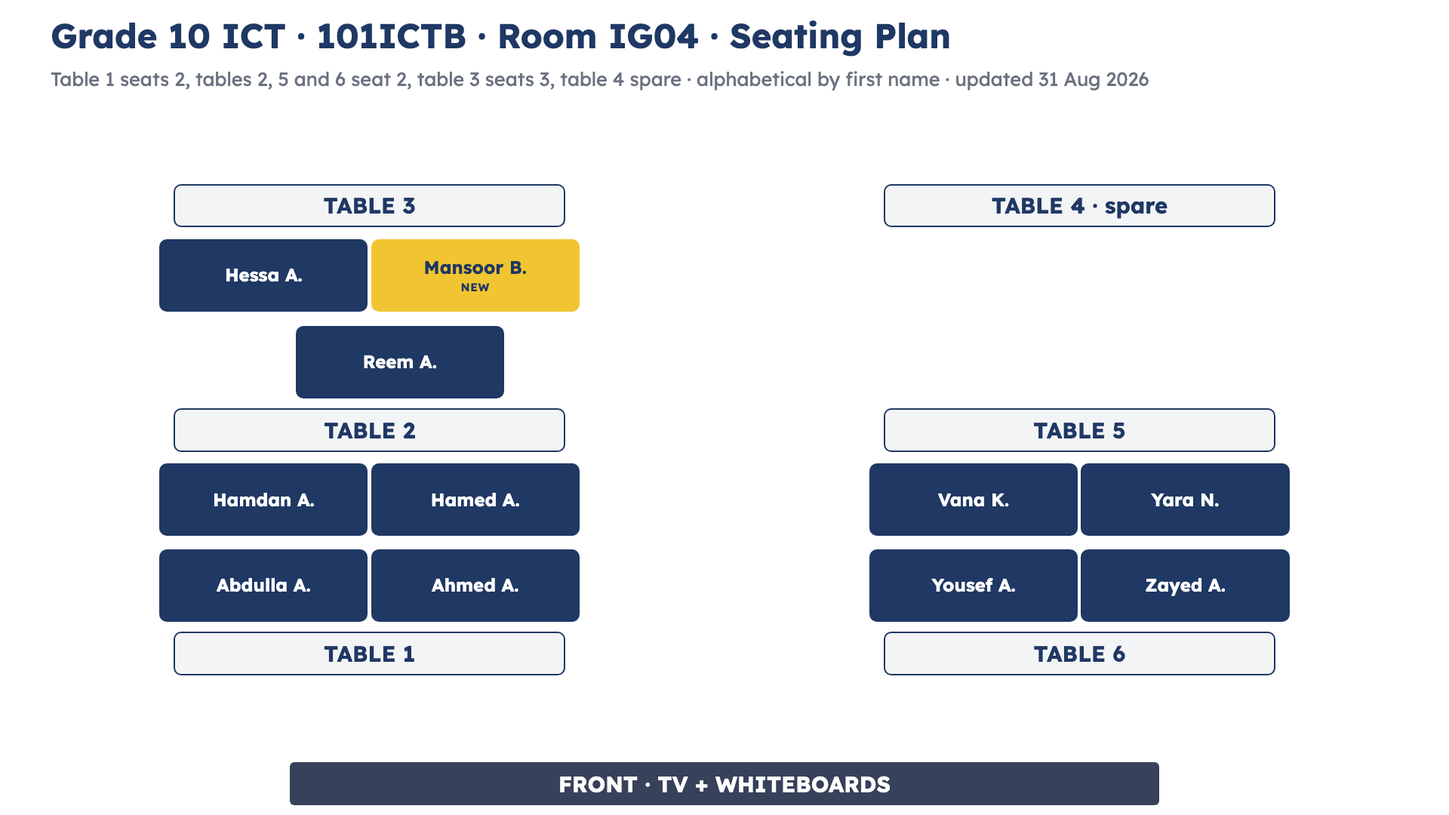
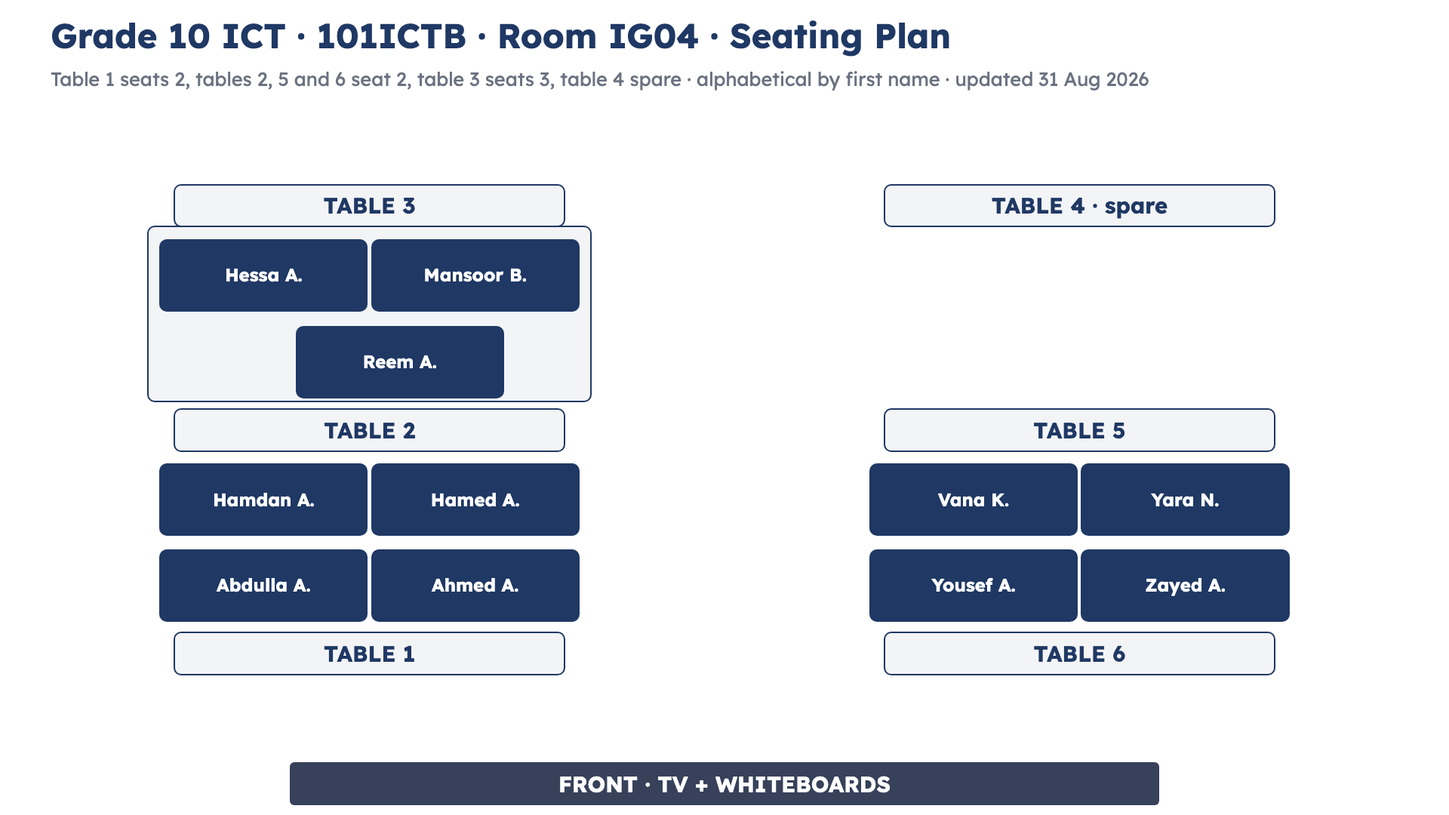
inline edits

Changed region(s): [[0.25, 0.275, 0.4062, 0.3972]]

diff --git a/g10-week1-welcome-ict.html b/g10-week1-welcome-ict.html
@@ -165,7 +165,10 @@ body { font-family:var(--font-body); font-size:var(--body-size); color:#F2F5FF; 
 .crt-glow { position:fixed; inset:0; z-index:320; pointer-events:none;
   background:radial-gradient(ellipse at 50% 50%, transparent 52%, rgba(0,0,0,.42) 100%); }
 
-/* drifting tetrominoes, drawn from one square plus three shadows */
+/* drifting tetrominoes, drawn from one square plus three shadows.
+   .tetbox pens them inside their own slide so a drifting piece can never
+   push a slide's measured height past the slide itself. */
+.tetbox { position:absolute; inset:0; overflow:hidden; z-index:1; pointer-events:none; }
 .tetfall { position:absolute; z-index:1; --tc:clamp(11px, 1.5vw, 20px);
   width:var(--tc); height:var(--tc); background:currentColor; opacity:.14;
   animation:tetdrop linear infinite; }
@@ -304,7 +307,8 @@ body.scaled-up .col-img { display:none; }
 .sh-col { display:flex; flex-direction:column; gap:clamp(3px,0.4vw,6px); }
 .sh-band { display:grid; grid-template-columns:1fr 1fr; gap:clamp(3px,0.4vw,6px); }
 .sh-head { display:flex; justify-content:space-between; gap:8px; align-items:center; background:#EDE6D2; }
-.sh-row { display:flex; gap:5px; align-items:flex-start; }
+/* position:relative so a row ring sits on the row itself, not on the whole box */
+.sh-row { display:flex; gap:5px; align-items:flex-start; position:relative; }
 .sh-tick { flex:none; width:1.15em; height:1.15em; border:2px solid #6C7284; background:#fff; margin-top:1px; }
 .rule { display:block; border-bottom:1px solid #A9A08A; height:1.05em; }
 .sh-mini { font-size:0.88em; color:#4A4F60; }
@@ -470,15 +474,17 @@ body.edit-active [contenteditable="true"] { outline:2px dashed var(--p-o); outli
 
 <!-- 1 · Title -->
 <section class="slide g-arcade" data-notes="<strong>Threshold, 08:30.</strong> Stand at the door of IG04 as they arrive from IF05. Greet every student by name if you can, uniform and appearance glance before anyone comes in (Expectations s35), fixes go out before entry, not after. <strong>Presenter keys:</strong> N notes &middot; E edit (autosaves on this machine) &middot; F fullscreen &middot; &#8984;&#8679;H hides teacher callouts &middot; arrow keys move, and a slide with a task shows its timer top left. <strong>The red iSAMS pop-up arrives on slide 3 and follows every slide until you press &#10003; done.</strong>">
-  <div class="tetfall I" style="left:8%;  animation-duration:38s; animation-delay:-4s"></div>
-  <div class="tetfall T" style="left:24%; animation-duration:52s; animation-delay:-22s"></div>
-  <div class="tetfall O" style="left:71%; animation-duration:44s; animation-delay:-11s"></div>
-  <div class="tetfall S" style="left:88%; animation-duration:58s; animation-delay:-31s"></div>
+  <div class="tetbox" aria-hidden="true">
+    <div class="tetfall I" style="left:8%;  animation-duration:38s; animation-delay:-4s"></div>
+    <div class="tetfall T" style="left:24%; animation-duration:52s; animation-delay:-22s"></div>
+    <div class="tetfall O" style="left:71%; animation-duration:44s; animation-delay:-11s"></div>
+    <div class="tetfall S" style="left:88%; animation-duration:58s; animation-delay:-31s"></div>
+  </div>
   <div class="slide-content">
     <span class="chip reveal" style="align-self:flex-start">WEEK 1 &middot; LESSON 1 &middot; TUESDAY 1 SEPTEMBER</span>
     <h1 class="reveal" style="margin-top:0.55em">WELCOME<br>TO <span style="color:var(--p-i)">ICT</span></h1>
     <p class="lede reveal" style="margin-top:0.7em">Grade 10 &middot; 101ICTB &middot; Mr Igor &middot; Room IG04</p>
-    <p class="reveal" style="margin-top:0.7em; max-width:820px">Two weeks of artificial intelligence, ending with a working Tetris game built from a single prompt. Today we set the class up so none of that time gets lost.</p>
+    <p class="reveal" style="margin-top:0.7em; max-width:820px">Two weeks build toward a working Tetris game, made from one carefully written instruction to a computer. Today we set the class up so none of that time gets lost.</p>
     <p class="reveal" style="margin-top:1em"><span class="chip dark">PERIOD 1 &nbsp;08:30 to 09:05</span> &nbsp; <span class="chip dark">PERIOD 2 &nbsp;09:10 to 09:45</span></p>
   </div>
 </section>
@@ -510,11 +516,14 @@ body.edit-active [contenteditable="true"] { outline:2px dashed var(--p-o); outli
         <p class="small" style="margin-top:6px; font-family:var(--font-label); font-size:var(--label-size); color:var(--p-i)">the seating plan for IG04 &middot; find your table as you walk in</p>
       </div>
     </div>
+    <p data-teacher-only="true" style="margin-top:var(--element-gap)">
+      <a class="linkbtn gold" data-teacher-only="true" href="https://docs.google.com/presentation/d/1kD-_kfR5YJZA6YTBsMhgRQG44PpTvgGZwYV4GcWB40M/edit" target="_blank" rel="noopener">&#9654; open the seating plan (full names)</a>
+    </p>
   </div>
 </section>
 
 <!-- 3 · The lesson loop + housekeeping · iSAMS ARRIVES HERE -->
-<section class="slide g-panel" data-isams="true" data-notes="<strong>Housekeeping and the loop, about 1 min.</strong> Fast. This is the shape of every lesson in student words, and it is the slide that carries the register reminder and the timetable handout. <strong>The red iSAMS pop-up lands here and follows every slide until you press &#10003; done. One register for this double, final by 08:35.</strong> Open iSAMS with the link inside the pop-up. <span class='tag cfu'>CFU</span> fist to five: who can say the four steps back to me?">
+<section class="slide g-panel" data-isams="true" data-notes="<strong>Housekeeping and the loop, about 1 min.</strong> Fast. This is the shape of every lesson in student words, and it is the slide that carries the register reminder and the timetable handout. <strong>The red iSAMS pop-up lands here and follows every slide until you press &#10003; done. One register for this double, final by 08:35.</strong> Open iSAMS with the link inside the pop-up. <span class='tag cfu'>CFU</span> Cold Call one student to say the four steps back to me. Then fist to five: how confident is everyone else that they know them?">
   <div class="slide-content">
     <p class="eyebrow reveal">// how_every_lesson_runs</p>
     <h2 class="reveal">The same loop, every lesson</h2>
@@ -524,7 +533,7 @@ body.edit-active [contenteditable="true"] { outline:2px dashed var(--p-o); outli
       <div class="tblock s reveal"><b>3 &middot; Build laps</b><br>You work, I circulate, we check against the criteria.</div>
       <div class="tblock t reveal"><b>4 &middot; Prove it</b><br>Tick your sheet, exit ticket, barometer, out the door.</div>
     </div>
-    <div class="tblock z reveal" style="margin-top:var(--content-gap)"><b>Today only:</b> your printed timetable is handed out in this period. Put it somewhere you will actually find it again.</div>
+    <div class="tblock z reveal" style="margin-top:var(--content-gap)"><b>Today only:</b> you get your printed timetable this period. Put it somewhere you will actually find it again.</div>
     <div class="tcall reveal" data-teacher-only="true" style="margin-top:var(--element-gap)">one iSAMS register for this double, final by 08:35. Use the link in the red pop-up, then press done.</div>
   </div>
 </section>
@@ -547,9 +556,11 @@ body.edit-active [contenteditable="true"] { outline:2px dashed var(--p-o); outli
 </section>
 
 <!-- 5 · Do Now, part 1: silent solo -->
-<section class="slide g-well" data-timer="240" data-timer-group="donow" data-notes="<strong>Do Now part 1, 4 min silent solo.</strong> Start the 4 minute timer top left. TLAC Do Now: they should already be writing before you say anything. Circulate, do not talk over them. The Hint is on the sheet in Box 6 and revealed on this slide with NEXT if anyone stalls. <strong>Below Level:</strong> the sentence starter stays on screen. <strong>Above Level:</strong> point them at the Challenge box as soon as they finish. Poster 12 is the next slide, and the wall copy is in the room.">
-  <div class="tetfall O" style="left:6%; animation-duration:46s; animation-delay:-9s"></div>
-  <div class="tetfall Z" style="left:93%; animation-duration:54s; animation-delay:-26s"></div>
+<section class="slide g-well" data-timer="240" data-notes="<strong>Do Now part 1, 4 min silent solo.</strong> Start the 4 minute timer top left. TLAC Do Now: they should already be writing before you say anything. Circulate, do not talk over them. The Hint is on the sheet in Box 6 and revealed on this slide with NEXT if anyone stalls. <strong>Below Level:</strong> the sentence starter stays on screen. <strong>Above Level:</strong> point them at the Challenge box as soon as they finish. Poster 12 is the next slide, and the wall copy is in the room.">
+  <div class="tetbox" aria-hidden="true">
+    <div class="tetfall O" style="left:6%; animation-duration:46s; animation-delay:-9s"></div>
+    <div class="tetfall Z" style="left:93%; animation-duration:54s; animation-delay:-26s"></div>
+  </div>
   <div class="slide-content" style="max-width:min(96vw,1420px)">
     <p class="eyebrow reveal">// do_now &middot; my_top_three</p>
     <h2 class="reveal">Do Now: My Top Three</h2>
@@ -561,7 +572,7 @@ body.edit-active [contenteditable="true"] { outline:2px dashed var(--p-o); outli
           <li class="reveal">My number two.</li>
           <li class="reveal">My number three.</li>
         </ul>
-        <p class="reveal" style="margin-top:var(--element-gap)"><span class="chip red">4 minutes &middot; on your own &middot; silent &middot; on your sheet, Box 5</span></p>
+        <p class="reveal" style="margin-top:var(--element-gap)"><span class="chip red">4 minutes &middot; on your own &middot; silent &middot; in the DO NOW box</span></p>
         <div class="tblock i reveal" style="margin-top:var(--element-gap)"><b>Stuck for a sentence?</b> Try: "I would not want to live without ... because ..."</div>
         <div class="tblock s" data-fragment="1" style="margin-top:var(--element-gap)"><b>HINT (stuck on the Do Now?)</b><br>Think about your last 24 hours. What did you switch on, pick up or open first?</div>
       </div>
@@ -571,18 +582,22 @@ body.edit-active [contenteditable="true"] { outline:2px dashed var(--p-o); outli
 </section>
 
 <!-- 6 · Poster 12, big at the point of use -->
-<section class="slide g-paper" data-notes="<strong>Poster 12, about 30 seconds.</strong> Point at the wall copy in the room while this is up. My Top Three is a PIES task: everyone thinks alone first, everyone shares before anyone shares twice, and the group has to build one answer out of at least three people's ideas. Leave it up while the tables negotiate on the next slide.">
+<section class="slide g-paper" data-notes="<strong>Poster 12, about 30 seconds.</strong> Point at the wall copy while the tables negotiate on the next slide. Poster 12 lives on the wall, so it stays visible in the room. My Top Three is a PIES task: everyone thinks alone first, everyone shares before anyone shares twice, and the group has to build one answer out of at least three people's ideas.">
   <div class="poster-wrap">
     <img src="assets/poster-12.jpg" alt="Poster 12: My Top Three, a cooperative learning activity built on PIES">
   </div>
-  <div style="position:relative; z-index:3; text-align:center; padding:0 1rem clamp(0.5rem,2vh,1.2rem)">
+  <div style="position:relative; z-index:3; padding:0 1rem clamp(0.5rem,2vh,1.2rem); display:flex; flex-direction:column; align-items:center; gap:clamp(0.25rem,0.8vh,0.5rem)">
     <span class="chip">Poster 12 lives on our wall. Every group game in this room works the PIES way.</span>
+    <span class="chip dark" style="text-align:center">PIES: Positive interdependence, Individual accountability, Equal participation, Simultaneous interaction.</span>
+    <span class="chip green" style="text-align:center">Our room runs it in threes and fours, because our tables seat two.</span>
   </div>
 </section>
 
 <!-- 7 · Do Now, part 2: the table agrees -->
-<section class="slide g-well" data-timer="240" data-timer-group="donow" data-notes="<strong>Do Now part 2, 4 min table share, then 2 min Cold Call.</strong> The block clock carries over from the solo phase, so hit start again for the table share. Equal Participation is the rule that matters: everyone speaks once before anyone speaks twice. Circulate and listen for who is doing the negotiating. <span class='tag cfu'>CFU</span> Cold Call two tables with NEXT: their agreed Top 3, and whose idea each one was. That second half is the part that makes them listen.">
-  <div class="tetfall S" style="left:12%; animation-duration:50s; animation-delay:-14s"></div>
+<section class="slide g-well" data-timer="240" data-notes="<strong>Do Now part 2, 4 min table share, then 2 min Cold Call.</strong> Fresh 4 minute clock for the table share. Click it when they start talking. Equal Participation is the rule that matters: everyone speaks once before anyone speaks twice. Circulate and listen for who is doing the negotiating. <span class='tag cfu'>CFU</span> Cold Call two tables with NEXT: their agreed Top 3, and whose idea each one was. That second half is the part that makes them listen.">
+  <div class="tetbox" aria-hidden="true">
+    <div class="tetfall S" style="left:12%; animation-duration:50s; animation-delay:-14s"></div>
+  </div>
   <div class="slide-content" style="max-width:min(96vw,1420px)">
     <p class="eyebrow reveal">// do_now &middot; table_agreement</p>
     <h2 class="reveal">Now your table agrees one Top 3</h2>
@@ -593,6 +608,7 @@ body.edit-active [contenteditable="true"] { outline:2px dashed var(--p-o); outli
           <li class="reveal">Everyone shares once before anyone shares twice.</li>
           <li class="reveal">The table agrees <b>one</b> Top 3, using ideas from at least three different people.</li>
         </ul>
+        <div class="tblock i reveal" style="margin-top:var(--element-gap)">Tables 1 and 2 work as one group. Table 3 works as a three. Tables 5 and 6 work as one group.</div>
         <p class="reveal" style="margin-top:var(--element-gap)"><span class="chip red">4 minutes &middot; at your table</span></p>
         <div class="tblock z" data-fragment="1" style="margin-top:var(--element-gap)"><b>Cold Call, 2 minutes.</b> Two tables report their agreed Top 3, and say whose idea each one was. No hands up, I pick.</div>
       </div>
@@ -609,7 +625,7 @@ body.edit-active [contenteditable="true"] { outline:2px dashed var(--p-o); outli
     <div class="two-col" style="align-items:start">
       <div style="max-width:680px">
         <div class="tblock o reveal" style="font-size:calc(clamp(0.95rem,1.9vw,1.4rem) * var(--font-scale))"><b>CHALLENGE (finished the Do Now?)</b><br>Connect your three. Write one sentence that is true for all three of your choices.</div>
-        <p class="reveal" style="margin-top:var(--element-gap)"><span class="chip">two ruled lines, Box 7 on your sheet</span></p>
+        <p class="reveal" style="margin-top:var(--element-gap)"><span class="chip">two ruled lines, in the CHALLENGE box</span></p>
         <div class="tblock i reveal" style="margin-top:var(--element-gap)">One sentence, not three. The harder it is to find something true of all three, the better your answer will be.</div>
       </div>
       <div class="col-img reveal sheet-fig sheet-slot" data-rings="b7:gold" style="max-width:min(44vw,600px)"></div>
@@ -667,7 +683,7 @@ body.edit-active [contenteditable="true"] { outline:2px dashed var(--p-o); outli
         <h2 class="reveal">Mr Igor</h2>
         <ul class="plain">
           <li class="reveal">This is my <b>eighth year of teaching at AIS</b>.</li>
-          <li class="reveal">I was born in <b>Mostar</b>, in Bosnia and Croatia. I have lived in Australia since I was ten.</li>
+          <li class="reveal">Born in <b>Mostar</b> (Bosnia/Croatia). In Australia since I was ten.</li>
           <li class="reveal"><b>Sydney</b> was the last place I lived before AIS.</li>
           <li class="reveal">I really love teaching. I love technology. I love watches.</li>
           <li class="reveal">Most importantly, I really love <b>having fun</b>.</li>
@@ -705,8 +721,10 @@ body.edit-active [contenteditable="true"] { outline:2px dashed var(--p-o); outli
 
 <!-- 14 · Things I do not like + the hinge + CFU -->
 <section class="slide g-arcade" data-notes="<strong>The hinge, about 2 min, then the check.</strong> Two things, no more. Then say the line on the slide out loud, in your own voice, and let it sit for a beat. It is what hands the lesson over to the routines block in Period 2. <span class='tag cfu'>CFU</span> Cold Call three students, one fact each about Mr Igor, no hands up. Then Building Ratio: 'Who can add one more?' goes to a fourth student before you confirm anything. Three seconds of Wait Time before every answer.">
-  <div class="tetfall Z" style="left:14%; animation-duration:42s; animation-delay:-6s"></div>
-  <div class="tetfall L" style="left:82%; animation-duration:56s; animation-delay:-30s"></div>
+  <div class="tetbox" aria-hidden="true">
+    <div class="tetfall Z" style="left:14%; animation-duration:42s; animation-delay:-6s"></div>
+    <div class="tetfall L" style="left:82%; animation-duration:56s; animation-delay:-30s"></div>
+  </div>
   <div class="slide-content">
     <p class="eyebrow reveal">// things_i_do_not_like</p>
     <h2 class="reveal">Two things I do not like</h2>
@@ -721,8 +739,10 @@ body.edit-active [contenteditable="true"] { outline:2px dashed var(--p-o); outli
 
 <!-- 15 · Changeover: Heads and Tails, two coins -->
 <section class="slide g-arcade" data-notes="<strong>Changeover, 09:05 to 09:10 (5 min).</strong> The class stays in IG04, this is the gap between Period 1 and Period 2. Brain Break from OTP s3, run with two coins so a round ends faster with eleven players. Everyone stands, they choose before you flip, both coins have to match their choice. Click each coin separately or use FLIP BOTH. Play until two or three are left, then straight into Period 2.">
-  <div class="tetfall O" style="left:10%; animation-duration:40s; animation-delay:-3s"></div>
-  <div class="tetfall I" style="left:90%; animation-duration:48s; animation-delay:-19s"></div>
+  <div class="tetbox" aria-hidden="true">
+    <div class="tetfall O" style="left:10%; animation-duration:40s; animation-delay:-3s"></div>
+    <div class="tetfall I" style="left:90%; animation-duration:48s; animation-delay:-19s"></div>
+  </div>
   <div class="slide-content" style="align-items:center; text-align:center">
     <p class="eyebrow reveal">// brain_break</p>
     <h1 class="reveal">HEADS AND TAILS</h1>
@@ -783,22 +803,22 @@ body.edit-active [contenteditable="true"] { outline:2px dashed var(--p-o); outli
       <li data-fragment="2"><b>Posters live on cupboards.</b> Nothing on classroom walls, and nothing on the windows facing the corridor.</li>
       <li data-fragment="3"><b>Fresh paint, new furniture.</b> We hand this room back better than we found it.</li>
     </ul>
-    <div class="tblock o reveal" style="margin-top:var(--content-gap)">That last line comes back at the end of the lesson, on your Exit Ticket.</div>
+    <div class="tblock o" data-fragment="4" style="margin-top:var(--content-gap)">That last line comes back at the end of the lesson, on your Exit Ticket.</div>
   </div>
 </section>
 
 <!-- 18 · Bathroom + nurse -->
-<section class="slide g-panel" data-notes="<strong>Bathroom and nurse, about 2 min. Expectations s33 and s34.</strong> Reveal one at a time. These are school-wide rules, not Mr Igor being difficult, and saying so lands better. <span class='tag cfu'>CFU</span> fist to five on both routines at the end. Anything under 3 gets re-taught on the spot, not later. <strong>New this year:</strong> a nurse slip goes to the secondary clinic, not the Senior School Hub.">
+<section class="slide g-panel" data-notes="<strong>Bathroom and nurse, about 2 min. Expectations s33 and s34.</strong> Reveal one at a time. These are school-wide rules, not Mr Igor being difficult, and saying so lands better. <span class='tag cfu'>CFU</span> fist to five on both routines at the end. Anything under 3 gets re-taught on the spot, not later. <strong>Nurse:</strong> a nurse slip sends them straight to the secondary clinic. <strong>Say what the All Access Pass is</strong> as you name it, because today is the first time they hear the phrase.">
   <div class="slide-content">
     <p class="eyebrow reveal">// bathroom_and_nurse</p>
     <h2 class="reveal">Bathroom and nurse</h2>
-    <div class="tblock i reveal">
-      <b>Bathroom.</b> You need an All Access Pass from me. Not in the first 15 minutes of a lesson, and not in the last 15. One student out at a time. Nearest bathroom to this room. Five minutes.
+    <div class="tblock i" data-fragment="1">
+      <b>Bathroom.</b> You need an All Access Pass, the pass I hand you at my desk, before you leave the room. Not in the first 15 minutes of a lesson, and not in the last 15. One student out at a time. Nearest bathroom to this room. Five minutes.
     </div>
-    <div class="tblock s reveal" style="margin-top:var(--element-gap)">
-      <b>Feeling unwell.</b> I write you a nurse slip and you go straight to the secondary clinic, not the Senior School Hub. The nurse signs you back in.
+    <div class="tblock s" data-fragment="2" style="margin-top:var(--element-gap)">
+      <b>Feeling unwell.</b> I write you a nurse slip and you go straight to the secondary clinic. The nurse signs you back in.
     </div>
-    <div class="tblock o reveal" style="margin-top:var(--element-gap)">
+    <div class="tblock o" data-fragment="3" style="margin-top:var(--element-gap)">
       <b>Break time exists for a reason.</b> Go then, and you never need the pass at all.
     </div>
   </div>
@@ -814,8 +834,11 @@ body.edit-active [contenteditable="true"] { outline:2px dashed var(--p-o); outli
       <li data-fragment="2"><b>Makeup:</b> natural foundation only. No eyeliner, mascara, lip gloss or lipstick.</li>
       <li data-fragment="3"><b>Nails:</b> no nail extensions, no coloured gel.</li>
       <li data-fragment="4"><b>Bandaids:</b> medical only, skin colour or clear.</li>
-      <li data-fragment="5"><b>Drama and sports uniforms</b> are worn on their own days and events only, not in ICT.</li>
-      <li data-fragment="6"><b>Shoes and jewellery</b> follow the AIS appearance policy. If you are unsure, ask me before someone else asks you.</li>
+      <li data-fragment="5"><b>Shoes:</b> black shoes with plain socks. No coloured trainers, and no coloured socks.</li>
+      <li data-fragment="6"><b>Jewellery, watches:</b> one wrist watch. Smart watches are allowed.</li>
+      <li data-fragment="7"><b>Jewellery, earrings:</b> up to two thin earrings in each pierced ear. Studs up to 5 mm, sleepers up to 15 mm.</li>
+      <li data-fragment="8"><b>Jewellery, necklaces:</b> one necklace, and only if it has religious significance and stays hidden under your collar.</li>
+      <li data-fragment="9"><b>Drama and sports uniforms</b> are worn on their own days and events only, not in ICT.</li>
     </ul>
   </div>
 </section>
@@ -851,7 +874,7 @@ body.edit-active [contenteditable="true"] { outline:2px dashed var(--p-o); outli
           On your own device, research one real use of artificial intelligence. Then <span class="verb">critique</span> it. Write three things: the use you found, what could go wrong, and what a person still has to do.
         </div>
         <div class="tblock i reveal" style="margin-top:var(--element-gap)">Hand it to Mr Igor, or post it in Google Classroom once you have joined.</div>
-        <p class="reveal" style="margin-top:var(--element-gap)"><span class="chip">four ruled lines, Box 8 on your sheet</span></p>
+        <p class="reveal" style="margin-top:var(--element-gap)"><span class="chip">four ruled lines, in the SUPER CHALLENGE box</span></p>
       </div>
       <div class="col-img reveal sheet-fig sheet-slot" data-rings="b8:gold" style="max-width:min(44vw,600px)"></div>
     </div>
@@ -859,12 +882,12 @@ body.edit-active [contenteditable="true"] { outline:2px dashed var(--p-o); outli
 </section>
 
 <!-- 22 · CFU 1 -->
-<section class="slide g-panel" data-timer="60" data-notes="<strong>CFU 1, 09:19 to 09:21 (2 min). Success Criterion 1.</strong> 60 second timer on the slide for the Everybody Writes. This is OTP s19 structure, so every one of the eleven writes something rather than three hands going up. Then Cold Call three students to narrate the entry routine end to end, and Building Ratio: the third student adds to the second, they do not start again. Fist to five on bathroom and nurse. <strong>Anything under 3 gets re-taught right now.</strong>">
+<section class="slide g-panel" data-timer="60" data-notes="<strong>CFU 1, 09:19 to 09:21 (2 min). Success Criterion 1.</strong> 60 second timer on the slide for the Everybody Writes, and they write on the BACK of the sheet, because the printed page has no spare margin. This is OTP s19 structure, so every one of the eleven writes something rather than three hands going up. Then Cold Call three students to narrate the entry routine end to end, and Building Ratio: the third student adds to the second, they do not start again. Fist to five on bathroom and nurse. <strong>Anything under 3 gets re-taught right now.</strong>">
   <div class="slide-content">
     <p class="eyebrow reveal">// check_for_understanding &middot; SC 1</p>
     <h2 class="reveal">Check: can you run the routines?</h2>
     <ul class="steps">
-      <li class="reveal"><b>Everybody writes, 60 seconds.</b> In the margin of your sheet, write the two routine steps you are least sure about.</li>
+      <li class="reveal"><b>Everybody writes, 60 seconds.</b> On the back of your sheet, write the two routine steps you are least sure about.</li>
       <li class="reveal"><b>Cold call.</b> Three of you narrate the entry routine from start to finish. No hands up.</li>
       <li class="reveal"><b>Fist to five.</b> How sure are you about the bathroom rule and the nurse rule?</li>
     </ul>
@@ -883,7 +906,7 @@ body.edit-active [contenteditable="true"] { outline:2px dashed var(--p-o); outli
         <div class="tblock o reveal" style="margin-top:var(--element-gap)"><b>The Self-Barometer</b> at the bottom runs 1 Not Confident to 5 Mastered. You place yourself, and it is not a mark.</div>
         <div class="tblock i reveal" style="margin-top:var(--element-gap)"><b>Where the sheet lives.</b> Handed in at the end of every lesson, and kept as your record of the term.</div>
       </div>
-      <div class="col-img reveal sheet-fig sheet-slot" data-rings="" style="max-width:min(46vw,640px)"></div>
+      <div class="col-img reveal sheet-fig sheet-slot" data-rings="b3:green,b10:gold" style="max-width:min(46vw,640px)"></div>
     </div>
   </div>
 </section>
@@ -922,7 +945,7 @@ body.edit-active [contenteditable="true"] { outline:2px dashed var(--p-o); outli
 </section>
 
 <!-- 26 · Turn and Talk, its own structured slide -->
-<section class="slide g-stack" data-timer="300" data-notes="<strong>Lap 3 part 1, Turn and Talk, 5 min. Timer on the slide.</strong> Structure copied straight from OTP s6, so an observer can name it. Read all five lines of the structure before anyone speaks. Say 'Swap' out loud at the halfway point, about 2 minutes 30. <span class='tag tt'>Turn and Talk</span> <span class='tag cfu'>CFU</span> the Cold Call comes two slides later and asks for the PARTNER'S answer, so tell them that now, before they start listening. <strong>Below Level:</strong> both questions stay on screen the whole time, and the sentence starter is there. <strong>Above Level:</strong> take Question 2 first, then justify.">
+<section class="slide g-stack" data-timer="300" data-notes="<strong>Lap 3 part 1, Turn and Talk, 5 min. Timer on the slide.</strong> Structure copied straight from OTP s6, so an observer can name it. Read all five lines of the structure before anyone speaks. Say 'Swap' out loud at the halfway point, about 2 minutes 30. <span class='tag tt'>Turn and Talk</span> <span class='tag cfu'>CFU</span> the Cold Call comes three slides later, after the roadmap and the drones, and asks for the PARTNER'S answer, so tell them that now, before they start listening. <strong>Below Level:</strong> both questions stay on screen the whole time, and the sentence starter is there. <strong>Above Level:</strong> take Question 2 first, then justify.">
   <div class="slide-content" style="max-width:min(96vw,1420px)">
     <p class="eyebrow reveal">// turn_and_talk</p>
     <h2 class="reveal">Turn and Talk: 5 minutes</h2>
@@ -934,6 +957,7 @@ body.edit-active [contenteditable="true"] { outline:2px dashed var(--p-o); outli
           <li class="reveal"><b>Your partner</b> is the person sitting next to you.</li>
           <li class="reveal"><b>Who talks first:</b> the partner whose first name comes first in the alphabet. You lined up in that order this morning, so you already know.</li>
           <li class="reveal"><b>Swap</b> when Mr Igor says "Swap", halfway through.</li>
+          <li class="reveal"><b>Table 3 works as a three:</b> talk in alphabetical order, Hessa then Mansoor then Reem, so everyone gets a turn. Table 3 swaps twice, not once.</li>
           <li class="reveal"><b>Cold call at the end:</b> you say your <b>partner's</b> answer, not your own.</li>
         </ul>
         <div class="tblock s reveal" style="margin-top:var(--element-gap)"><b>Stuck for a sentence?</b> Try: "I have seen AI when ..."</div>
@@ -945,8 +969,10 @@ body.edit-active [contenteditable="true"] { outline:2px dashed var(--p-o); outli
 
 <!-- 27 · Roadmap: the AI fortnight -->
 <section class="slide g-arcade" data-notes="<strong>Lap 3 part 2, the roadmap, about 3 min.</strong> A tease, not a lesson. Nothing is built today and nobody touches Gemini today, and the slide says so. The wording comes from the unit itself: a vague prompt makes the AI guess, a detailed one hands it a blueprint, and 'Rubbish in, rubbish out.' Step 3 and 4 are new for Grade 10 and different from how the younger classes ran it, so say that. <strong>Misconception, if it comes up:</strong> AI thinks like a person. It predicts patterns from training data. Name it and park it, it is taught properly next block.">
-  <div class="tetfall I" style="left:5%;  animation-duration:44s; animation-delay:-7s"></div>
-  <div class="tetfall T" style="left:95%; animation-duration:50s; animation-delay:-24s"></div>
+  <div class="tetbox" aria-hidden="true">
+    <div class="tetfall I" style="left:5%;  animation-duration:44s; animation-delay:-7s"></div>
+    <div class="tetfall T" style="left:95%; animation-duration:50s; animation-delay:-24s"></div>
+  </div>
   <div class="slide-content" style="max-width:min(96vw,1400px)">
     <p class="eyebrow reveal">// next_two_weeks</p>
     <h2 class="reveal">The next two weeks: AI, and a game of Tetris</h2>
@@ -964,7 +990,9 @@ body.edit-active [contenteditable="true"] { outline:2px dashed var(--p-o); outli
 
 <!-- 28 · Soccer Drones tease -->
 <section class="slide g-well" data-notes="<strong>Soccer Drones tease, about 1 min.</strong> Four facts only, and they are the four on the slide. Nothing about AIS dates, rooms or purchases, because none of that exists in the proposal document. If a student asks when, the honest answer is that you do not have a date yet. <strong>Pacing:</strong> this is the one part of the lesson that can move to the top of next lesson if the routines block overran.">
-  <div class="tetfall J" style="left:88%; animation-duration:46s; animation-delay:-12s"></div>
+  <div class="tetbox" aria-hidden="true">
+    <div class="tetfall J" style="left:88%; animation-duration:46s; animation-delay:-12s"></div>
+  </div>
   <div class="slide-content" style="max-width:min(96vw,1400px)">
     <p class="eyebrow reveal">// and_after_that</p>
     <h2 class="reveal">And after that: Soccer Drones</h2>
@@ -986,6 +1014,7 @@ body.edit-active [contenteditable="true"] { outline:2px dashed var(--p-o); outli
     <ul class="steps">
       <li class="reveal"><b>Four of you, partners only.</b> What did your partner say? No hands up, I pick.</li>
       <li class="reveal"><b>Then one more question each.</b> Why do you think they said that?</li>
+      <li class="reveal">If you were in the three at Table 3, tell me what either of the other two said, and name them.</li>
     </ul>
     <div class="tblock i reveal" style="margin-top:var(--content-gap)">Your own answer is not what I am asking for. Say your partner's.</div>
     <div class="tcall reveal" data-teacher-only="true" style="margin-top:var(--element-gap)">three seconds of wait time before every answer. do not rescue the silence.</div>
@@ -1021,7 +1050,8 @@ body.edit-active [contenteditable="true"] { outline:2px dashed var(--p-o); outli
         <div class="tblock z reveal" style="font-size:calc(clamp(0.92rem,1.8vw,1.32rem) * var(--font-scale))"><b>Q1 &middot;</b> Write one thing you now know about how this class runs.</div>
         <div class="tblock z reveal" style="margin-top:var(--element-gap); font-size:calc(clamp(0.92rem,1.8vw,1.32rem) * var(--font-scale))"><b>Q2 &middot;</b> Write one thing you already think about artificial intelligence.</div>
         <div class="tblock o reveal" style="margin-top:var(--element-gap)"><b>Before you stand:</b> desks back to the 2 desk format, chairs in, nothing left behind.</div>
-        <p class="reveal" style="margin-top:var(--element-gap)"><span class="chip">not in Classroom yet? code: yvyk3hu2</span></p>
+        <p class="reveal" style="margin-top:var(--element-gap)"><span class="chip">not in Classroom yet? code: yvyk3hu2</span>
+          &nbsp;<a class="linkbtn" href="https://classroom.google.com" target="_blank" rel="noopener">&#9654; open Google Classroom</a></p>
       </div>
       <div class="col-img reveal sheet-fig sheet-slot" data-rings="b9:red" style="max-width:min(44vw,600px)"></div>
     </div>
@@ -1077,7 +1107,7 @@ body.edit-active [contenteditable="true"] { outline:2px dashed var(--p-o); outli
         </div>
         <div class="sh-box b4">
           <span class="sh-h">SKILLS AND ROLES</span>
-          <span>Skills focus today: listening well enough to say your partner's answer back, and judging your own work honestly against the Success Criteria.</span>
+          <span>Skills focus today: listen well enough to say your partner's answer back. Also judge your own work honestly against the Success Criteria.</span>
           <span>Your role today: table member. Everyone shares once before anyone shares twice.</span>
         </div>
       </div>
@@ -1160,7 +1190,7 @@ body.edit-active [contenteditable="true"] { outline:2px dashed var(--p-o); outli
    Any deck push bumps DECK_VERSION (push-update.sh does it automatically), which purges
    stored edits so a stale edit can never be restored over a restructured deck.
    Everything else (font scale, teacher toggle, iSAMS state, timers) stays session-only. */
-const DECK_VERSION = 'v20260831-180546';
+const DECK_VERSION = 'v20260831-184612';
 const EDIT_KEY = 'g10w1-edits:' + DECK_VERSION;
 try { Object.keys(localStorage).forEach(k => { if (k !== EDIT_KEY) localStorage.removeItem(k); }); } catch (e) {}
 
